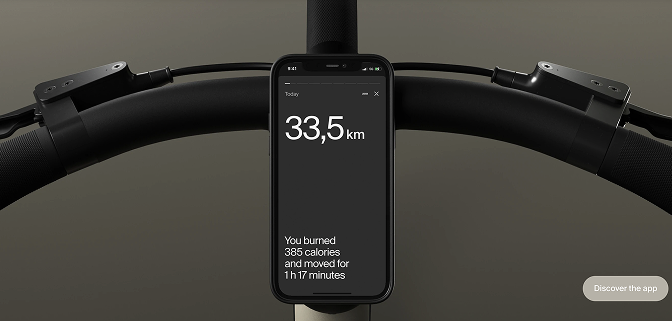
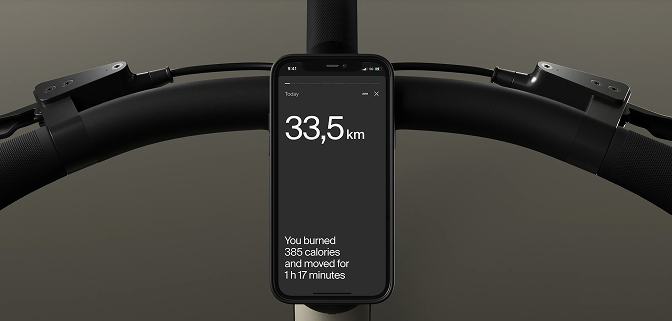
Last fixed

Changed region(s): [[0.8438, 0.8411, 1.0, 0.9346]]

diff --git a/src/styles/blocks/footer.scss b/src/styles/blocks/footer.scss
@@ -152,6 +152,11 @@
 
       color: $color-white;
       text-decoration: none;
+      transition: color 0.3s ease;
+
+      &:hover {
+        color: $color-hover-contact;
+      }
     }
   }
 

diff --git a/src/styles/utils/variables.scss b/src/styles/utils/variables.scss
@@ -4,3 +4,4 @@ $color-light-gray: #f8f8fa;
 $color-text-placeholder: #7e7e83;
 $color-menu: #c2c2c2;
 $color-input: #292929;
+$color-hover-contact: #f8f8fa;
